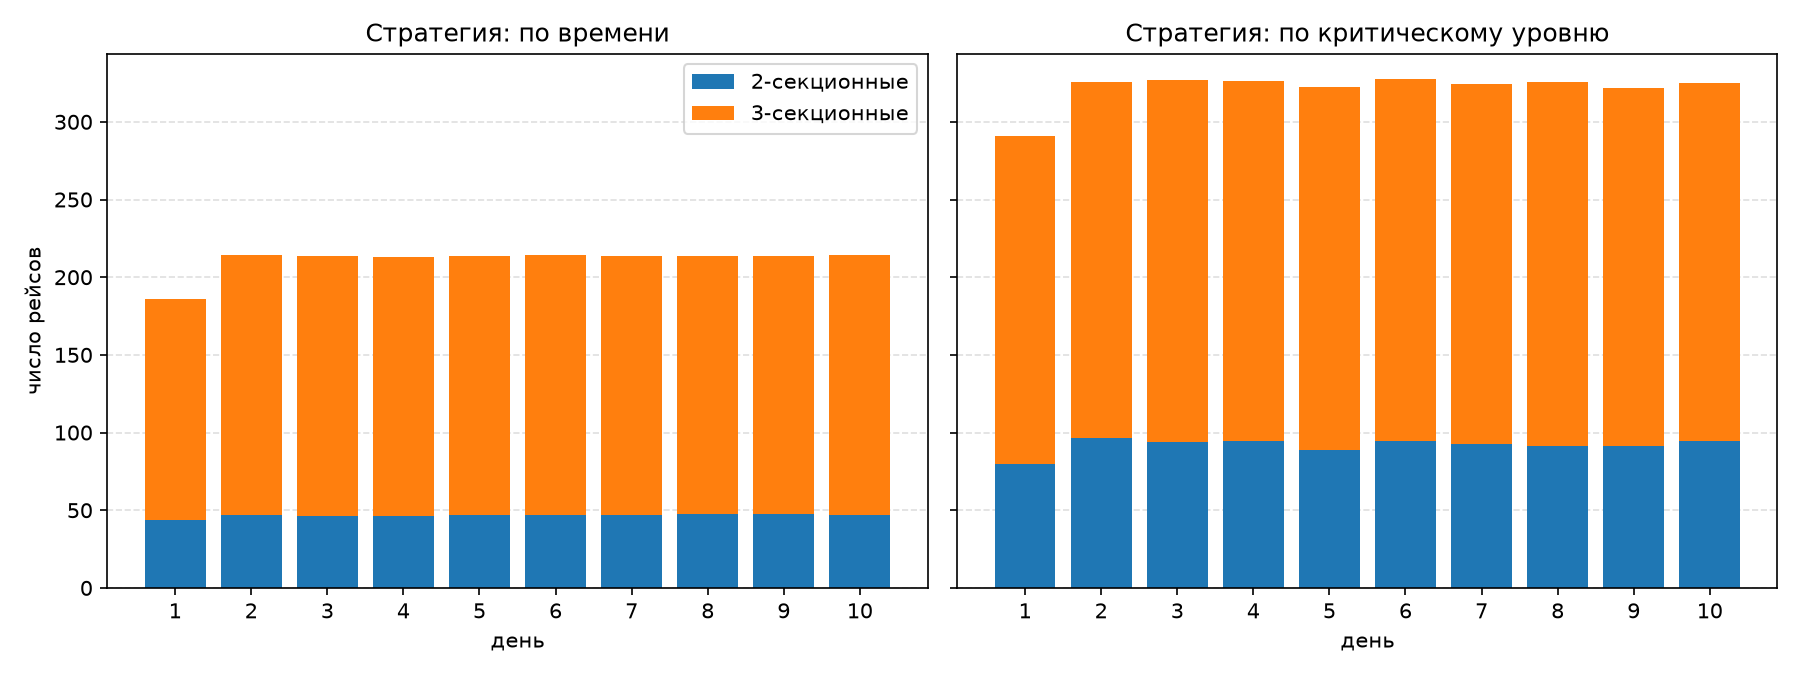
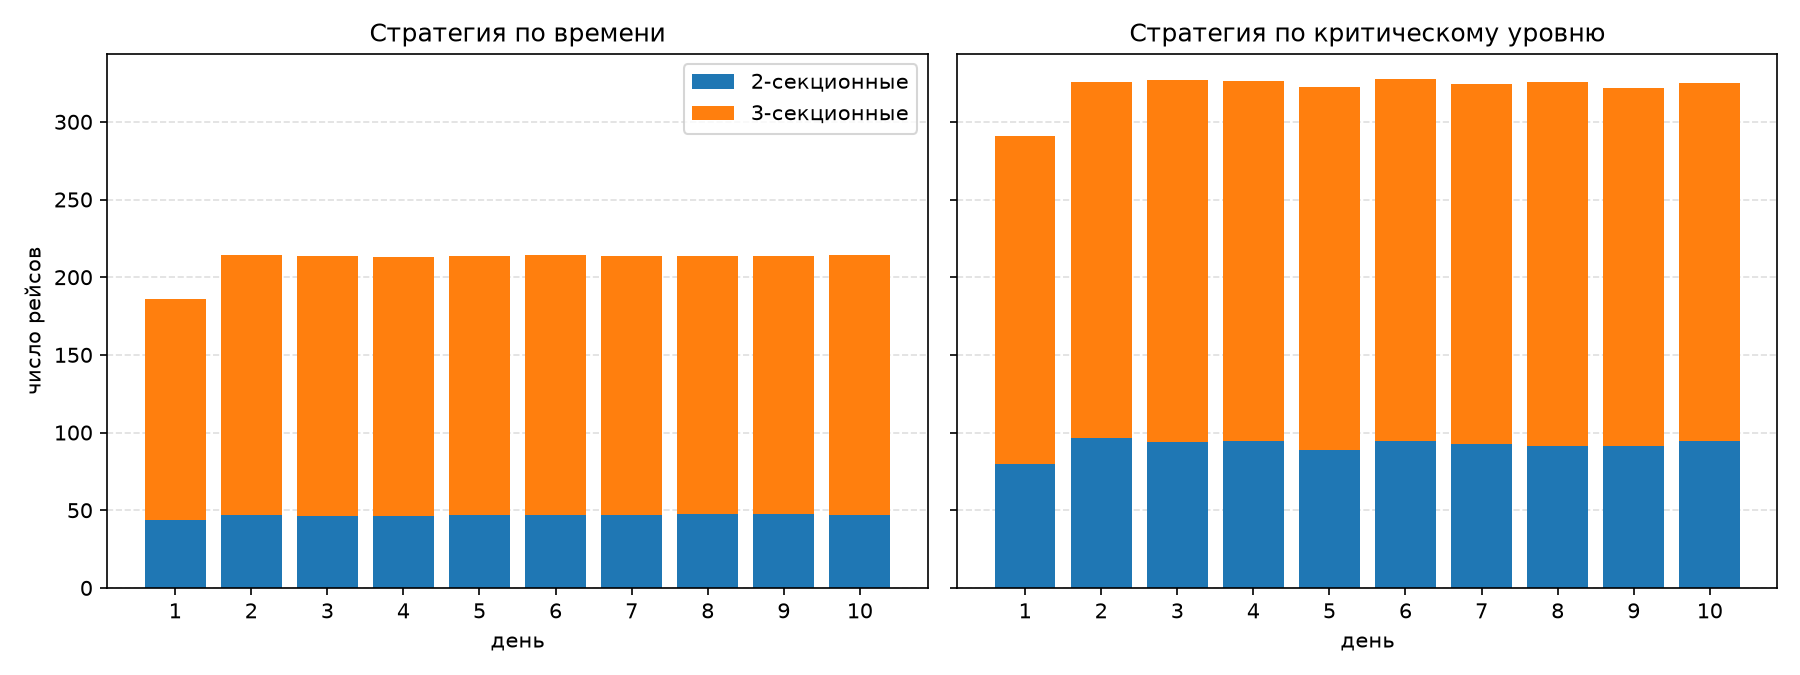
Update subplot titles in trips_by_day to remove colons

Changed region(s): [[0.6222, 0.0311, 0.9022, 0.0622], [0.1867, 0.0311, 0.3733, 0.0622]]

diff --git a/plots.py b/plots.py
@@ -26,7 +26,7 @@ def plot_trips():
         t3 = [float(r["рейсов_3_секц"]) for r in data]
         ax.bar(days, t2, label="2-секционные")
         ax.bar(days, t3, bottom=t2, label="3-секционные")
-        ax.set_title(f"Стратегия: {strat}")
+        ax.set_title(f"Стратегия {strat}")
         ax.set_xlabel("день")
         ax.set_xticks(days)
         ax.grid(axis="y", linestyle="--", alpha=0.4)
